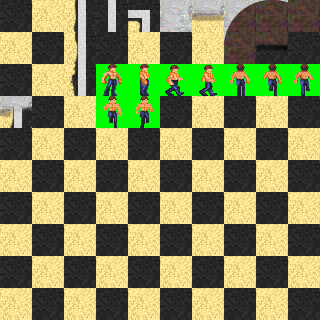
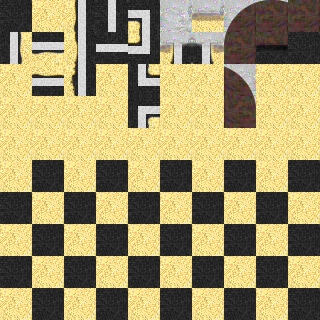
avances en el mapa

Changed region(s): [[0.0, 0.0938, 1.0, 0.5]]

diff --git a/src/principal/entes/Jugador.java b/src/principal/entes/Jugador.java
@@ -29,7 +29,7 @@ public class Jugador {
 		this.direccion = 0;
 
 		this.hs = new HojaSprites(Constantes.RUTA_JUGADOR, Constantes.LADO_SPRITE, false);
-		this.imagenActual = hs.getSprite(4, 3).getImagen();
+		this.imagenActual = hs.getSprite(0, 0).getImagen();
 
 		this.animacion = 0;
 		this.estado = 0;
@@ -43,16 +43,18 @@ public class Jugador {
 	}
 
 	private void cambiarAnimacionEstado() {
-		if (animacion < 30) {
+		if (animacion < 40) {
 			animacion++;
 		} else {
 			animacion = 0;
 		}
 
-		if (animacion < 15) {
+		if (animacion < 10) {
 			estado = 1;
-		} else {
+		} else if (animacion < 30 && animacion >= 20) {
 			estado = 2;
+		} else {
+			estado = 0;
 		}
 	}
 
@@ -118,11 +120,11 @@ public class Jugador {
 		if (velocidadX == -1) {
 			direccion = 3;
 		} else if (velocidadX == 1) {
-			direccion = 2;
+			direccion = 1;
 		}
 
 		if (velocidadY == -1) {
-			direccion = 1;
+			direccion = 2;
 		} else if (velocidadY == 1) {
 			direccion = 0;
 		}
@@ -164,7 +166,7 @@ public class Jugador {
 		final int centroX = Constantes.ANCHO_VENTANA / 2 - Constantes.LADO_SPRITE / 2;
 		final int centroY = Constantes.ALTO_VENTANA / 2 - Constantes.LADO_SPRITE / 2;
 
-		g.drawImage(imagenActual, Constantes.LADO_SPRITE, Constantes.LADO_SPRITE, null);
+		g.drawImage(imagenActual, centroX, centroY, null);
 	}
 
 	public void establecerPosicionX(final double posicionX) {

diff --git a/src/principal/mapas/Mapa.java b/src/principal/mapas/Mapa.java
@@ -20,6 +20,9 @@ public class Mapa {
 	private final int[] sprites;
 	private final String[] hojasSeparadas;
 
+	private final int MARGEN_X = Constantes.ANCHO_VENTANA / 2 - Constantes.LADO_SPRITE / 2;
+	private final int MARGEN_Y = Constantes.ALTO_VENTANA / 2 - Constantes.LADO_SPRITE / 2;
+
 	private final boolean[] colisiones;
 
 	public Mapa(final String ruta) {
@@ -60,7 +63,7 @@ public class Mapa {
 
 			int indicePaleta = Integer.parseInt(partesSprite[0]);
 			int indiceSpriteHoja = Integer.parseInt(partesSprite[2]);
-			System.out.println(partesSprite[0]);
+
 			paleta[indicePaleta] = hoja.getSprite(indiceSpriteHoja);
 		}
 
@@ -113,13 +116,15 @@ public class Mapa {
 	}
 
 	public void dibujar(Graphics g, int posicionX, int posicionY) {
-		int anchoSprite = Constantes.LADO_SPRITE;
-		int altoSprite = Constantes.LADO_SPRITE;
 
 		for (int y = 0; y < this.alto; y++) {
 			for (int x = 0; x < this.ancho; x++) {
 				BufferedImage imagen = this.paleta[this.sprites[x + y * this.ancho]].getImagen();
-				g.drawImage(imagen, x * anchoSprite - posicionX, y * altoSprite - posicionY, null);
+
+				int puntoX = x * Constantes.LADO_SPRITE - posicionX + MARGEN_X;
+				int puntoY = y * Constantes.LADO_SPRITE - posicionY + MARGEN_Y;
+
+				g.drawImage(imagen, puntoX, puntoY, null);
 			}
 		}
 	}

diff --git a/src/principal/Constantes.java b/src/principal/Constantes.java
@@ -13,9 +13,9 @@ public class Constantes {
 
 	public static int APS = 0;
 
-	public static String RUTA_JUGADOR = "/imagenes/hojasTexturas/1.png";
+	public static String RUTA_JUGADOR = "/imagenes/hojasPersonajes/2.png";
 	public static String RUTA_MAPA = "/imagenes/hojasTexturas/1.png";
-	public static String RUTA_CURSOR = "/imagenes/cursores/1.png";
-	public static String RUTA_LOGO = "/imagenes/cursores/1.png";
+	public static String RUTA_CURSOR = "/imagenes/cursores/2.png";
+	public static String RUTA_LOGO = "/imagenes/hojasPersonajes/1.png";
 
 }

diff --git a/src/principal/control/Raton.java b/src/principal/control/Raton.java
@@ -16,10 +16,11 @@ public class Raton {
 		Toolkit configuracion = Toolkit.getDefaultToolkit();
 
 		BufferedImage icono = CargadorRecursos.cargarImagenCompatibleTranslucida(Constantes.RUTA_CURSOR);
-
+		System.out.println(icono.getWidth());
 		Point punta = new Point(0, 0);
-
 		this.cursor = configuracion.createCustomCursor(icono, punta, "cursor por defecto");
+
+		configuracion.getBestCursorSize(10, 10);
 	}
 
 	public Cursor getCursor() {
